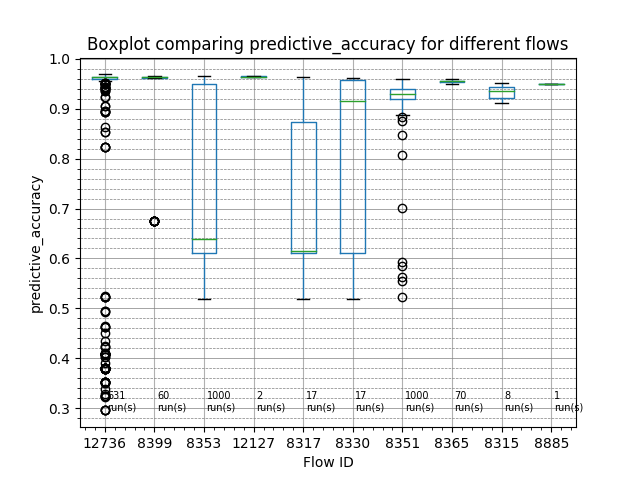
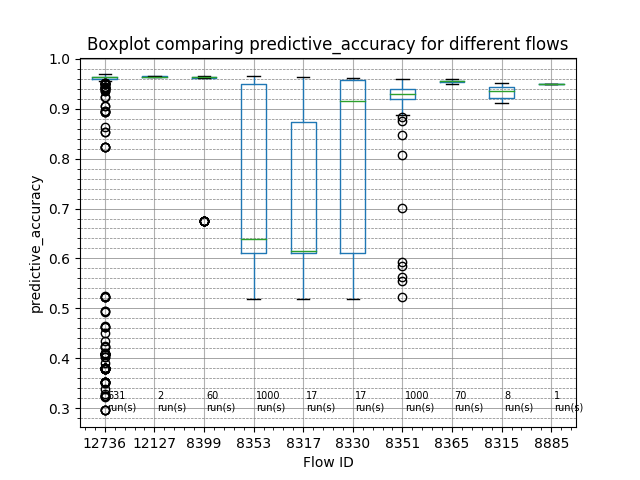
Deploy openml/openml-python to github.com/openml/openml-python.git:gh-pages

diff --git a/develop/examples/sg_execution_times.html b/develop/examples/sg_execution_times.html
@@ -111,15 +111,15 @@
       
   <div class="section" id="computation-times">
 <span id="sphx-glr-examples-sg-execution-times"></span><h1>Computation times<a class="headerlink" href="#computation-times" title="Permalink to this headline">¶</a></h1>
-<p><strong>01:33.301</strong> total execution time for <strong>examples</strong> files:</p>
+<p><strong>01:33.071</strong> total execution time for <strong>examples</strong> files:</p>
 <ul class="simple">
-<li><p><strong>00:32.658</strong>: <a class="reference internal" href="tasks_tutorial.html#sphx-glr-examples-tasks-tutorial-py"><span class="std std-ref">Tasks</span></a> (<code class="docutils literal notranslate"><span class="pre">tasks_tutorial.py</span></code>)</p></li>
-<li><p><strong>00:21.231</strong>: <a class="reference internal" href="flows_and_runs_tutorial.html#sphx-glr-examples-flows-and-runs-tutorial-py"><span class="std std-ref">Flows and Runs</span></a> (<code class="docutils literal notranslate"><span class="pre">flows_and_runs_tutorial.py</span></code>)</p></li>
-<li><p><strong>00:12.606</strong>: <a class="reference internal" href="introduction_tutorial.html#sphx-glr-examples-introduction-tutorial-py"><span class="std std-ref">Introduction</span></a> (<code class="docutils literal notranslate"><span class="pre">introduction_tutorial.py</span></code>)</p></li>
-<li><p><strong>00:07.230</strong>: <a class="reference internal" href="run_setup_tutorial.html#sphx-glr-examples-run-setup-tutorial-py"><span class="std std-ref">Run Setup</span></a> (<code class="docutils literal notranslate"><span class="pre">run_setup_tutorial.py</span></code>)</p></li>
-<li><p><strong>00:07.147</strong>: <a class="reference internal" href="datasets_tutorial.html#sphx-glr-examples-datasets-tutorial-py"><span class="std std-ref">Datasets</span></a> (<code class="docutils literal notranslate"><span class="pre">datasets_tutorial.py</span></code>)</p></li>
-<li><p><strong>00:06.835</strong>: <a class="reference internal" href="fetch_evaluations_tutorial.html#sphx-glr-examples-fetch-evaluations-tutorial-py"><span class="std std-ref">Fetching Evaluations</span></a> (<code class="docutils literal notranslate"><span class="pre">fetch_evaluations_tutorial.py</span></code>)</p></li>
-<li><p><strong>00:05.594</strong>: <a class="reference internal" href="create_upload_tutorial.html#sphx-glr-examples-create-upload-tutorial-py"><span class="std std-ref">Dataset upload tutorial</span></a> (<code class="docutils literal notranslate"><span class="pre">create_upload_tutorial.py</span></code>)</p></li>
+<li><p><strong>00:32.128</strong>: <a class="reference internal" href="tasks_tutorial.html#sphx-glr-examples-tasks-tutorial-py"><span class="std std-ref">Tasks</span></a> (<code class="docutils literal notranslate"><span class="pre">tasks_tutorial.py</span></code>)</p></li>
+<li><p><strong>00:21.264</strong>: <a class="reference internal" href="flows_and_runs_tutorial.html#sphx-glr-examples-flows-and-runs-tutorial-py"><span class="std std-ref">Flows and Runs</span></a> (<code class="docutils literal notranslate"><span class="pre">flows_and_runs_tutorial.py</span></code>)</p></li>
+<li><p><strong>00:12.862</strong>: <a class="reference internal" href="introduction_tutorial.html#sphx-glr-examples-introduction-tutorial-py"><span class="std std-ref">Introduction</span></a> (<code class="docutils literal notranslate"><span class="pre">introduction_tutorial.py</span></code>)</p></li>
+<li><p><strong>00:07.237</strong>: <a class="reference internal" href="run_setup_tutorial.html#sphx-glr-examples-run-setup-tutorial-py"><span class="std std-ref">Run Setup</span></a> (<code class="docutils literal notranslate"><span class="pre">run_setup_tutorial.py</span></code>)</p></li>
+<li><p><strong>00:07.150</strong>: <a class="reference internal" href="datasets_tutorial.html#sphx-glr-examples-datasets-tutorial-py"><span class="std std-ref">Datasets</span></a> (<code class="docutils literal notranslate"><span class="pre">datasets_tutorial.py</span></code>)</p></li>
+<li><p><strong>00:06.833</strong>: <a class="reference internal" href="fetch_evaluations_tutorial.html#sphx-glr-examples-fetch-evaluations-tutorial-py"><span class="std std-ref">Fetching Evaluations</span></a> (<code class="docutils literal notranslate"><span class="pre">fetch_evaluations_tutorial.py</span></code>)</p></li>
+<li><p><strong>00:05.598</strong>: <a class="reference internal" href="create_upload_tutorial.html#sphx-glr-examples-create-upload-tutorial-py"><span class="std std-ref">Dataset upload tutorial</span></a> (<code class="docutils literal notranslate"><span class="pre">create_upload_tutorial.py</span></code>)</p></li>
 </ul>
 </div>
 

diff --git a/develop/examples/fetch_evaluations_tutorial.html b/develop/examples/fetch_evaluations_tutorial.html
@@ -221,11 +221,11 @@ Note that we now filter the evaluations based on another parameter ‘task’.</
 
 Displaying head of sorted dataframe:
         run_id  task_id  setup_id  ...     value values array_data
-2759  10279798   167140   8166877  ...  0.968613   None       None
 2758  10279797   167140   8166877  ...  0.968613   None       None
-2233  10232987   167140   8157961  ...  0.967671   None       None
+2759  10279798   167140   8166877  ...  0.968613   None       None
 2216  10232158   167140   8157180  ...  0.967671   None       None
-2284  10271558   167140   8154506  ...  0.967043   None       None
+2233  10232987   167140   8157961  ...  0.967671   None       None
+2823  10291679   167140   8157545  ...  0.967043   None       None
 
 [5 rows x 12 columns]
 </pre></div>
@@ -318,9 +318,9 @@ For this, we shall compare the top performing flows.</p>
 <img alt="../_images/sphx_glr_fetch_evaluations_tutorial_002.png" class="sphx-glr-single-img" src="../_images/sphx_glr_fetch_evaluations_tutorial_002.png" />
 <p class="sphx-glr-script-out">Out:</p>
 <div class="sphx-glr-script-out highlight-none notranslate"><div class="highlight"><pre><span></span>(12736, &#39;sklearn.pipeline.Pipeline(simpleimputer=sklearn.impute._base.SimpleImputer,histgradientboostingclassifier=sklearn.ensemble._hist_gradient_boosting.gradient_boosting.HistGradientBoostingClassifier)(1)&#39;)
+(12127, &#39;sklearn.ensemble._hist_gradient_boosting.gradient_boosting.HistGradientBoostingClassifier(1)&#39;)
 (8399, &#39;sklearn.model_selection._search.RandomizedSearchCV(estimator=sklearn.pipeline.Pipeline(imputation=hyperimp.utils.preprocessing.ConditionalImputer,hotencoding=sklearn.preprocessing.data.OneHotEncoder,scaling=sklearn.preprocessing.data.StandardScaler,variencethreshold=sklearn.feature_selection.variance_threshold.VarianceThreshold,clf=sklearn.svm.classes.SVC))(1)&#39;)
 (8353, &#39;sklearn.pipeline.Pipeline(imputation=hyperimp.utils.preprocessing.ConditionalImputer2,hotencoding=sklearn.preprocessing.data.OneHotEncoder,scaling=sklearn.preprocessing.data.StandardScaler,variencethreshold=sklearn.feature_selection.variance_threshold.VarianceThreshold,clf=sklearn.svm.classes.SVC)(1)&#39;)
-(12127, &#39;sklearn.ensemble._hist_gradient_boosting.gradient_boosting.HistGradientBoostingClassifier(1)&#39;)
 (8317, &#39;sklearn.pipeline.Pipeline(imputation=hyperimp.utils.preprocessing.ConditionalImputer,hotencoding=sklearn.preprocessing.data.OneHotEncoder,scaling=sklearn.preprocessing.data.StandardScaler,variencethreshold=sklearn.feature_selection.variance_threshold.VarianceThreshold,clf=sklearn.svm.classes.SVC)(1)&#39;)
 (8330, &#39;sklearn.pipeline.Pipeline(imputation=openmlstudy14.preprocessing.ConditionalImputer,hotencoding=sklearn.preprocessing.data.OneHotEncoder,scaling=sklearn.preprocessing.data.StandardScaler,variencethreshold=sklearn.feature_selection.variance_threshold.VarianceThreshold,classifier=sklearn.svm.classes.SVC)(2)&#39;)
 (8351, &#39;sklearn.pipeline.Pipeline(imputation=hyperimp.utils.preprocessing.ConditionalImputer2,hotencoding=sklearn.preprocessing.data.OneHotEncoder,variencethreshold=sklearn.feature_selection.variance_threshold.VarianceThreshold,clf=sklearn.ensemble.forest.RandomForestClassifier)(1)&#39;)
@@ -329,7 +329,7 @@ For this, we shall compare the top performing flows.</p>
 (8885, &#39;sklearn.pipeline.Pipeline(imputation=preprocessing.ConditionalImputer2,catencoding=preprocessing.MultiLabelEncoder,variencethreshold=sklearn.feature_selection.variance_threshold.VarianceThreshold,clf=sklearn.ensemble.forest.RandomForestClassifier)(1)&#39;)
 </pre></div>
 </div>
-<p class="sphx-glr-timing"><strong>Total running time of the script:</strong> ( 0 minutes  6.835 seconds)</p>
+<p class="sphx-glr-timing"><strong>Total running time of the script:</strong> ( 0 minutes  6.833 seconds)</p>
 <div class="sphx-glr-footer class sphx-glr-footer-example docutils container" id="sphx-glr-download-examples-fetch-evaluations-tutorial-py">
 <div class="sphx-glr-download docutils container">
 <p><a class="reference download internal" download="" href="../_downloads/8ebde0963923552ec6438c2732e14fec/fetch_evaluations_tutorial.py"><code class="xref download docutils literal notranslate"><span class="pre">Download</span> <span class="pre">Python</span> <span class="pre">source</span> <span class="pre">code:</span> <span class="pre">fetch_evaluations_tutorial.py</span></code></a></p>

diff --git a/develop/examples/create_upload_tutorial.html b/develop/examples/create_upload_tutorial.html
@@ -240,7 +240,7 @@ expected format:</p>
 </pre></div>
 </div>
 <p class="sphx-glr-script-out">Out:</p>
-<div class="sphx-glr-script-out highlight-none notranslate"><div class="highlight"><pre><span></span>URL for dataset: https://test.openml.org/api/v1/xml/data/26459
+<div class="sphx-glr-script-out highlight-none notranslate"><div class="highlight"><pre><span></span>URL for dataset: https://test.openml.org/api/v1/xml/data/26791
 </pre></div>
 </div>
 </div>
@@ -316,7 +316,7 @@ OrderedDicts in the case of sparse data.</p>
 </pre></div>
 </div>
 <p class="sphx-glr-script-out">Out:</p>
-<div class="sphx-glr-script-out highlight-none notranslate"><div class="highlight"><pre><span></span>URL for dataset: https://test.openml.org/api/v1/xml/data/26460
+<div class="sphx-glr-script-out highlight-none notranslate"><div class="highlight"><pre><span></span>URL for dataset: https://test.openml.org/api/v1/xml/data/26792
 </pre></div>
 </div>
 </div>
@@ -383,7 +383,7 @@ call <code class="xref py py-func docutils literal notranslate"><span class="pre
 </pre></div>
 </div>
 <p class="sphx-glr-script-out">Out:</p>
-<div class="sphx-glr-script-out highlight-none notranslate"><div class="highlight"><pre><span></span>URL for dataset: https://test.openml.org/api/v1/xml/data/26462
+<div class="sphx-glr-script-out highlight-none notranslate"><div class="highlight"><pre><span></span>URL for dataset: https://test.openml.org/api/v1/xml/data/26793
 </pre></div>
 </div>
 </div>
@@ -423,7 +423,7 @@ call <code class="xref py py-func docutils literal notranslate"><span class="pre
 </pre></div>
 </div>
 <p class="sphx-glr-script-out">Out:</p>
-<div class="sphx-glr-script-out highlight-none notranslate"><div class="highlight"><pre><span></span>URL for dataset: https://test.openml.org/api/v1/xml/data/26463
+<div class="sphx-glr-script-out highlight-none notranslate"><div class="highlight"><pre><span></span>URL for dataset: https://test.openml.org/api/v1/xml/data/26794
 </pre></div>
 </div>
 </div>
@@ -502,13 +502,13 @@ None
 </pre></div>
 </div>
 <p class="sphx-glr-script-out">Out:</p>
-<div class="sphx-glr-script-out highlight-none notranslate"><div class="highlight"><pre><span></span>URL for dataset: https://test.openml.org/api/v1/xml/data/26465
+<div class="sphx-glr-script-out highlight-none notranslate"><div class="highlight"><pre><span></span>URL for dataset: https://test.openml.org/api/v1/xml/data/26795
 </pre></div>
 </div>
 <div class="highlight-default notranslate"><div class="highlight"><pre><span></span><span class="n">openml</span><span class="o">.</span><span class="n">config</span><span class="o">.</span><span class="n">stop_using_configuration_for_example</span><span class="p">()</span>
 </pre></div>
 </div>
-<p class="sphx-glr-timing"><strong>Total running time of the script:</strong> ( 0 minutes  5.594 seconds)</p>
+<p class="sphx-glr-timing"><strong>Total running time of the script:</strong> ( 0 minutes  5.598 seconds)</p>
 <div class="sphx-glr-footer class sphx-glr-footer-example docutils container" id="sphx-glr-download-examples-create-upload-tutorial-py">
 <div class="sphx-glr-download docutils container">
 <p><a class="reference download internal" download="" href="../_downloads/cfed637ede9071636ff8da65fe73607a/create_upload_tutorial.py"><code class="xref download docutils literal notranslate"><span class="pre">Download</span> <span class="pre">Python</span> <span class="pre">source</span> <span class="pre">code:</span> <span class="pre">create_upload_tutorial.py</span></code></a></p>

diff --git a/develop/examples/flows_and_runs_tutorial.html b/develop/examples/flows_and_runs_tutorial.html
@@ -202,7 +202,7 @@ Setup String.: Python_3.7.3. Sklearn_0.21.2. NumPy_1.17.0. SciPy_1.3.0. ExtraTre
                     max_features=&#39;auto&#39;, max_leaf_nodes=None,
                     min_impurity_decrease=0.0, min_impurity_split=None,
                     min_samples_leaf=1, min_samples_split=2,
-                    min_weight_fraction_leaf=0.0, random_state=28294,
+                    min_weight_fraction_leaf=0.0, random_state=29877,
                     splitter=&#39;random&#39;)
 Dataset ID...: 68
 Dataset URL..: https://test.openml.org/d/68
@@ -218,7 +218,7 @@ the run is sent to the OpenML server:</p>
 </pre></div>
 </div>
 <p class="sphx-glr-script-out">Out:</p>
-<div class="sphx-glr-script-out highlight-none notranslate"><div class="highlight"><pre><span></span>Uploaded to http://test.openml.org/r/34814
+<div class="sphx-glr-script-out highlight-none notranslate"><div class="highlight"><pre><span></span>Uploaded to http://test.openml.org/r/35180
 </pre></div>
 </div>
 <p>We can now also inspect the flow object which was automatically created:</p>
@@ -275,7 +275,7 @@ scipy&gt;=0.9
 </pre></div>
 </div>
 <p class="sphx-glr-script-out">Out:</p>
-<div class="sphx-glr-script-out highlight-none notranslate"><div class="highlight"><pre><span></span>Uploaded to http://test.openml.org/r/34815
+<div class="sphx-glr-script-out highlight-none notranslate"><div class="highlight"><pre><span></span>Uploaded to http://test.openml.org/r/35181
 </pre></div>
 </div>
 </div>
@@ -351,13 +351,13 @@ task_id:<a class="reference external" href="http://www.openml.org/t/52950">52950
 </pre></div>
 </div>
 <p class="sphx-glr-script-out">Out:</p>
-<div class="sphx-glr-script-out highlight-none notranslate"><div class="highlight"><pre><span></span>kNN on diabetes: http://test.openml.org/r/34817
+<div class="sphx-glr-script-out highlight-none notranslate"><div class="highlight"><pre><span></span>kNN on diabetes: http://test.openml.org/r/35183
 </pre></div>
 </div>
 <div class="highlight-default notranslate"><div class="highlight"><pre><span></span><span class="n">openml</span><span class="o">.</span><span class="n">config</span><span class="o">.</span><span class="n">stop_using_configuration_for_example</span><span class="p">()</span>
 </pre></div>
 </div>
-<p class="sphx-glr-timing"><strong>Total running time of the script:</strong> ( 0 minutes  21.231 seconds)</p>
+<p class="sphx-glr-timing"><strong>Total running time of the script:</strong> ( 0 minutes  21.264 seconds)</p>
 <div class="sphx-glr-footer class sphx-glr-footer-example docutils container" id="sphx-glr-download-examples-flows-and-runs-tutorial-py">
 <div class="sphx-glr-download docutils container">
 <p><a class="reference download internal" download="" href="../_downloads/27a5bee6ab807de4cd881f6693fcb2aa/flows_and_runs_tutorial.py"><code class="xref download docutils literal notranslate"><span class="pre">Download</span> <span class="pre">Python</span> <span class="pre">source</span> <span class="pre">code:</span> <span class="pre">flows_and_runs_tutorial.py</span></code></a></p>

diff --git a/develop/examples/sklearn/openml_run_example.html b/develop/examples/sklearn/openml_run_example.html
@@ -154,13 +154,13 @@ server from crowding with example datasets, tasks, runs, and so on.</p>
 </pre></div>
 </div>
 <p class="sphx-glr-script-out">Out:</p>
-<div class="sphx-glr-script-out highlight-none notranslate"><div class="highlight"><pre><span></span>URL for run: https://test.openml.org/api/v1/xml/run/34818
+<div class="sphx-glr-script-out highlight-none notranslate"><div class="highlight"><pre><span></span>URL for run: https://test.openml.org/api/v1/xml/run/35184
 </pre></div>
 </div>
 <div class="highlight-default notranslate"><div class="highlight"><pre><span></span><span class="n">openml</span><span class="o">.</span><span class="n">config</span><span class="o">.</span><span class="n">stop_using_configuration_for_example</span><span class="p">()</span>
 </pre></div>
 </div>
-<p class="sphx-glr-timing"><strong>Total running time of the script:</strong> ( 0 minutes  4.933 seconds)</p>
+<p class="sphx-glr-timing"><strong>Total running time of the script:</strong> ( 0 minutes  5.073 seconds)</p>
 <div class="sphx-glr-footer class sphx-glr-footer-example docutils container" id="sphx-glr-download-examples-sklearn-openml-run-example-py">
 <div class="sphx-glr-download docutils container">
 <p><a class="reference download internal" download="" href="../../_downloads/f7235831b23f4fbf340b2edb7769476f/openml_run_example.py"><code class="xref download docutils literal notranslate"><span class="pre">Download</span> <span class="pre">Python</span> <span class="pre">source</span> <span class="pre">code:</span> <span class="pre">openml_run_example.py</span></code></a></p>

diff --git a/develop/examples/introduction_tutorial.html b/develop/examples/introduction_tutorial.html
@@ -212,13 +212,13 @@ will use <strong>~/.openml/cache</strong> as the cache directory.</p></li>
 </pre></div>
 </div>
 <p class="sphx-glr-script-out">Out:</p>
-<div class="sphx-glr-script-out highlight-none notranslate"><div class="highlight"><pre><span></span>kNN on eeg-eye-state: http://test.openml.org/r/34812
+<div class="sphx-glr-script-out highlight-none notranslate"><div class="highlight"><pre><span></span>kNN on eeg-eye-state: http://test.openml.org/r/35178
 </pre></div>
 </div>
 <div class="highlight-default notranslate"><div class="highlight"><pre><span></span><span class="n">openml</span><span class="o">.</span><span class="n">config</span><span class="o">.</span><span class="n">stop_using_configuration_for_example</span><span class="p">()</span>
 </pre></div>
 </div>
-<p class="sphx-glr-timing"><strong>Total running time of the script:</strong> ( 0 minutes  12.606 seconds)</p>
+<p class="sphx-glr-timing"><strong>Total running time of the script:</strong> ( 0 minutes  12.862 seconds)</p>
 <div class="sphx-glr-footer class sphx-glr-footer-example docutils container" id="sphx-glr-download-examples-introduction-tutorial-py">
 <div class="sphx-glr-download docutils container">
 <p><a class="reference download internal" download="" href="../_downloads/401c39eb686323be5e9bb1b8948e4e0e/introduction_tutorial.py"><code class="xref download docutils literal notranslate"><span class="pre">Download</span> <span class="pre">Python</span> <span class="pre">source</span> <span class="pre">code:</span> <span class="pre">introduction_tutorial.py</span></code></a></p>

diff --git a/develop/examples/tasks_tutorial.html b/develop/examples/tasks_tutorial.html
@@ -425,7 +425,7 @@ will be returned.</p>
 <a class="reference external" href="https://www.openml.org/search?q=%2520measure_type%3Aestimation_procedure&amp;type=measure">https://www.openml.org/search?q=%2520measure_type%3Aestimation_procedure&amp;type=measure</a>)
 [Complete list of evaluation measures](
 <a class="reference external" href="https://www.openml.org/search?q=measure_type%3Aevaluation_measure&amp;type=measure">https://www.openml.org/search?q=measure_type%3Aevaluation_measure&amp;type=measure</a>)</p>
-<p class="sphx-glr-timing"><strong>Total running time of the script:</strong> ( 0 minutes  32.658 seconds)</p>
+<p class="sphx-glr-timing"><strong>Total running time of the script:</strong> ( 0 minutes  32.128 seconds)</p>
 <div class="sphx-glr-footer class sphx-glr-footer-example docutils container" id="sphx-glr-download-examples-tasks-tutorial-py">
 <div class="sphx-glr-download docutils container">
 <p><a class="reference download internal" download="" href="../_downloads/204148be48b3a7d6b2cc72a9fc63c69e/tasks_tutorial.py"><code class="xref download docutils literal notranslate"><span class="pre">Download</span> <span class="pre">Python</span> <span class="pre">source</span> <span class="pre">code:</span> <span class="pre">tasks_tutorial.py</span></code></a></p>

diff --git a/develop/examples/run_setup_tutorial.html b/develop/examples/run_setup_tutorial.html
@@ -226,7 +226,7 @@ server from crowding with example datasets, tasks, runs, and so on.</p>
 <div class="highlight-default notranslate"><div class="highlight"><pre><span></span><span class="n">openml</span><span class="o">.</span><span class="n">config</span><span class="o">.</span><span class="n">stop_using_configuration_for_example</span><span class="p">()</span>
 </pre></div>
 </div>
-<p class="sphx-glr-timing"><strong>Total running time of the script:</strong> ( 0 minutes  7.230 seconds)</p>
+<p class="sphx-glr-timing"><strong>Total running time of the script:</strong> ( 0 minutes  7.237 seconds)</p>
 <div class="sphx-glr-footer class sphx-glr-footer-example docutils container" id="sphx-glr-download-examples-run-setup-tutorial-py">
 <div class="sphx-glr-download docutils container">
 <p><a class="reference download internal" download="" href="../_downloads/1362ba2cd69c0b482a5c32fba04ee0d1/run_setup_tutorial.py"><code class="xref download docutils literal notranslate"><span class="pre">Download</span> <span class="pre">Python</span> <span class="pre">source</span> <span class="pre">code:</span> <span class="pre">run_setup_tutorial.py</span></code></a></p>

diff --git a/develop/examples/sklearn/sg_execution_times.html b/develop/examples/sklearn/sg_execution_times.html
@@ -111,9 +111,9 @@
       
   <div class="section" id="computation-times">
 <span id="sphx-glr-examples-sklearn-sg-execution-times"></span><h1>Computation times<a class="headerlink" href="#computation-times" title="Permalink to this headline">¶</a></h1>
-<p><strong>00:04.933</strong> total execution time for <strong>examples_sklearn</strong> files:</p>
+<p><strong>00:05.073</strong> total execution time for <strong>examples_sklearn</strong> files:</p>
 <ul class="simple">
-<li><p><strong>00:04.933</strong>: <a class="reference internal" href="openml_run_example.html#sphx-glr-examples-sklearn-openml-run-example-py"><span class="std std-ref">OpenML Run Example</span></a> (<code class="docutils literal notranslate"><span class="pre">openml_run_example.py</span></code>)</p></li>
+<li><p><strong>00:05.073</strong>: <a class="reference internal" href="openml_run_example.html#sphx-glr-examples-sklearn-openml-run-example-py"><span class="std std-ref">OpenML Run Example</span></a> (<code class="docutils literal notranslate"><span class="pre">openml_run_example.py</span></code>)</p></li>
 </ul>
 </div>
 

diff --git a/develop/examples/datasets_tutorial.html b/develop/examples/datasets_tutorial.html
@@ -298,7 +298,7 @@ such as <cite>get_data</cite>, the data will be downloaded.</p>
 </pre></div>
 </div>
 <img alt="../_images/sphx_glr_datasets_tutorial_001.png" class="sphx-glr-single-img" src="../_images/sphx_glr_datasets_tutorial_001.png" />
-<p class="sphx-glr-timing"><strong>Total running time of the script:</strong> ( 0 minutes  7.147 seconds)</p>
+<p class="sphx-glr-timing"><strong>Total running time of the script:</strong> ( 0 minutes  7.150 seconds)</p>
 <div class="sphx-glr-footer class sphx-glr-footer-example docutils container" id="sphx-glr-download-examples-datasets-tutorial-py">
 <div class="sphx-glr-download docutils container">
 <p><a class="reference download internal" download="" href="../_downloads/ea68bafc2f0d401c0e0139e9c46c83d5/datasets_tutorial.py"><code class="xref download docutils literal notranslate"><span class="pre">Download</span> <span class="pre">Python</span> <span class="pre">source</span> <span class="pre">code:</span> <span class="pre">datasets_tutorial.py</span></code></a></p>
